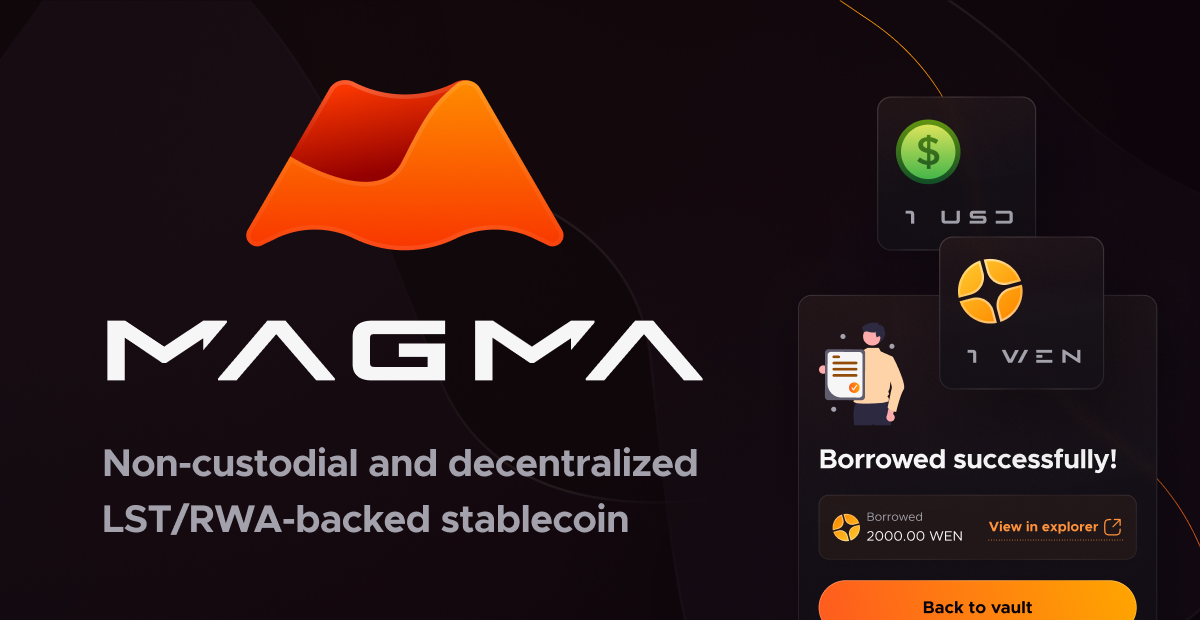
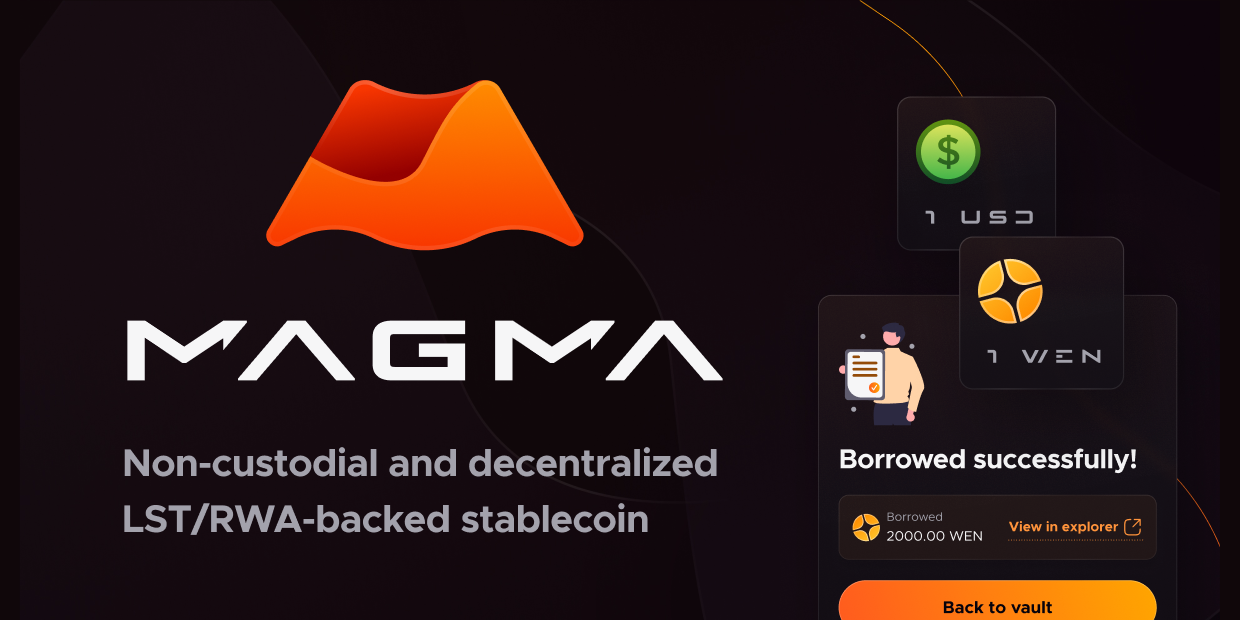
test twitter:image

diff --git a/public/index.html b/public/index.html
@@ -27,19 +27,21 @@
     />
     <meta name="twitter:site" content="@MagmaProtocol" />
     <meta name="twitter:creator" content="@MagmaProtocol" />
-    <!-- <meta
+    <meta name="twitter:image:width" content="1240" />
+    <meta name="twitter:image:height" content="620" />
+    <meta
       name="twitter:image"
       content="https://magma.finance/SEO-preview.png"
-    /> -->
-    <!-- <meta
+    />
+    <meta
       name="twitter:image:alt"
       content="Magma is a new DeFi primitive that enables users to mint a stablecoin, WEN. Fully collateralized by liquid staking tokens (LSTs) and real world assets (RWAs), WEN opens DeFi doors for projects and users alike through providing a native stable asset for the ecosystem."
-    /> -->
+    />
     <meta
       property="og:site_name"
       content="Magma Protocol | Decentralized LST/RWA-backed stablecoin"
     />
-    <meta property="og:image:width" content="1200" />
+    <meta property="og:image:width" content="1240" />
     <meta property="og:image:height" content="620" />
     <meta property="og:image" content="https://magma.finance/SEO-preview.png" />
     <meta
